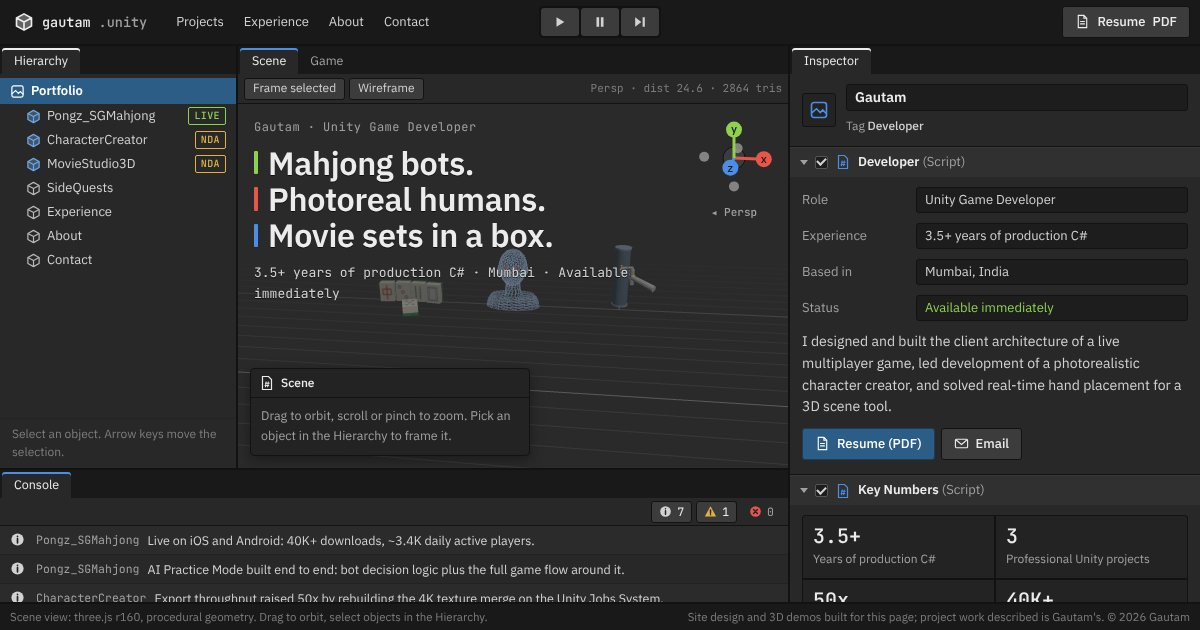
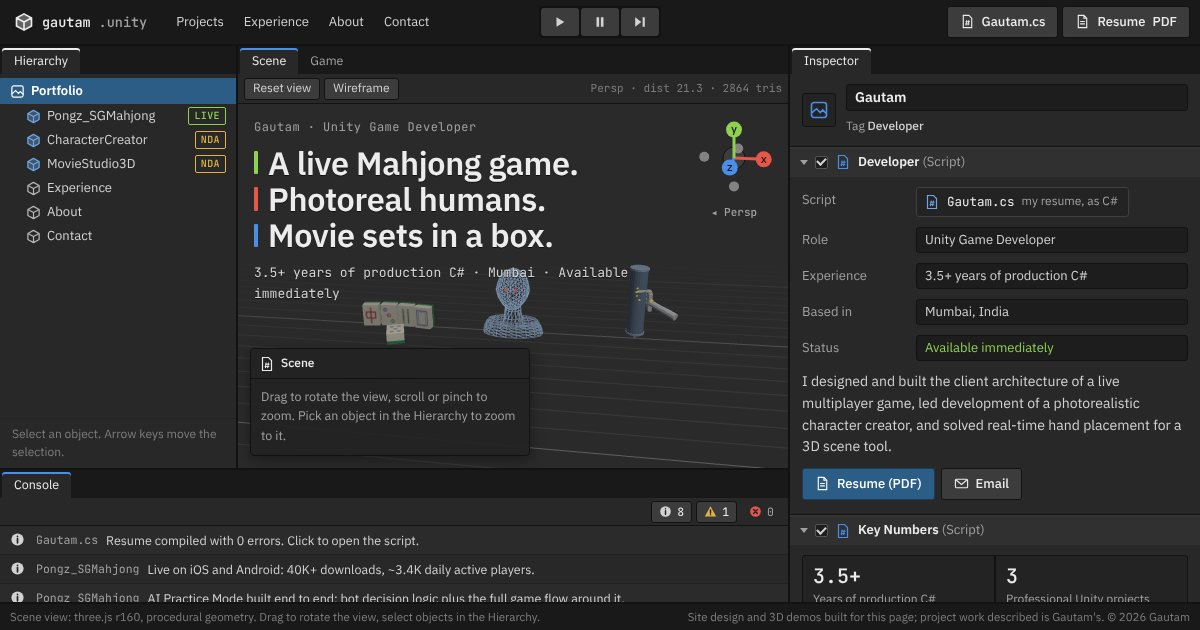
Headline: a live Mahjong game, not just its bots
Claude-Session: https://claude.ai/code/session_014DzCuzbTg4fBxECZUFG77J

diff --git a/index.html b/index.html
@@ -6,7 +6,7 @@
 <title>Gautam | Unity Game Developer</title>
 <meta name="description" content="Gautam, Unity game developer. 3.5+ years of production C#: a live multiplayer Mahjong game, a photorealistic character creator, and a 3D scene composition tool.">
 <meta property="og:title" content="Gautam | Unity Game Developer">
-<meta property="og:description" content="Mahjong bots. Photoreal humans. Movie sets in a box. 3.5+ years of production Unity and C#.">
+<meta property="og:description" content="A live Mahjong game. Photoreal humans. Movie sets in a box. 3.5+ years of production Unity and C#.">
 <meta name="theme-color" content="#191919">
 <meta property="og:type" content="website">
 <meta property="og:url" content="https://gautam3080.github.io/">
@@ -463,7 +463,7 @@ input[type="range"]:hover::-webkit-slider-thumb { background: #fff; }
         <canvas id="sceneCanvas" aria-label="Interactive 3D scene. Use the controls under the scene to change it."></canvas>
         <div class="hero" id="hero">
           <p class="eyebrow">Gautam · Unity Game Developer</p>
-          <h1><span class="c-green">Mahjong bots.</span> <span class="c-red">Photoreal humans.</span> <span class="c-blue">Movie sets in a box.</span></h1>
+          <h1><span class="c-green">A live Mahjong game.</span> <span class="c-red">Photoreal humans.</span> <span class="c-blue">Movie sets in a box.</span></h1>
           <p class="sub">3.5+ years of production C# · Mumbai · Available immediately</p>
         </div>
         <svg class="gizmo" id="gizmo" viewBox="-46 -46 92 108" aria-hidden="true"></svg>
